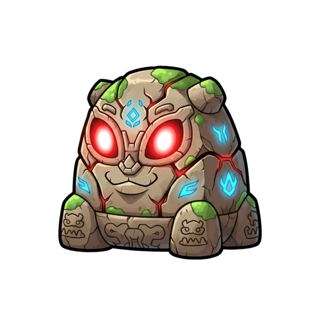
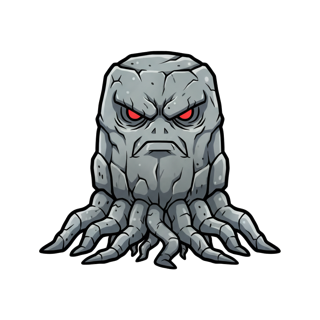
feat(art): gardiens clairement enracinés (arbre noueux/pierre/lave, immobiles)

diff --git a/src/scenes/TitleScene.ts b/src/scenes/TitleScene.ts
@@ -45,7 +45,7 @@ export class TitleScene extends Phaser.Scene {
     this.tweens.add({ targets: logo, scale: 1.03, yoyo: true, repeat: -1, duration: 1800, ease: 'Sine.inOut' })
 
     // repère de version : dis-moi ce numéro pour qu'on sache si tu vois bien la dernière build
-    this.add.text(10, 8, 'build R74', { fontSize: '16px', color: '#ffeb3b', fontStyle: 'bold' }).setOrigin(0, 0)
+    this.add.text(10, 8, 'build R75', { fontSize: '16px', color: '#ffeb3b', fontStyle: 'bold' }).setOrigin(0, 0)
 
     // accès aux logs sur mobile (pas de console sur iPhone) : « Logs » ouvre l'overlay DOM,
     // « Vider » réinitialise le ring buffer + localStorage.